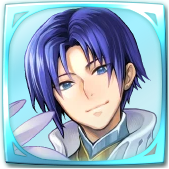
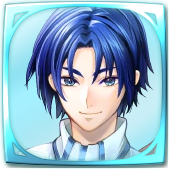
new flairs

diff --git a/flairsnew.js b/flairsnew.js
@@ -47,6 +47,14 @@ let data = {
             ":Kvasir:" : "10_7010.png",
               ":Cecilia4:" : "160_27040.png",
 
+  ":Fir3:" : "160_19030.png",
+    ":Noah:" : "160_19110.png",
+      ":Saul:" : "160_14110.png",
+        ":Dorothy:" : "160_14210.png",
+          ":Murdock:" : "160_33110.png",
+            ":Hinoka5:" : "1142_5050.png",
+              ":Sigurd4:" : "141_1040.png",
+
 
 
   ":Elise6:": "1143_12060.png",
@@ -1049,7 +1057,7 @@ let data = {
   ":Sanaki3:": "1102_2020.png",
   ":Sanaki4:": "1102_2040.png",
   ":Sara:": "150_12010.png",
-  ":Saul2:": "160_14110.png",
+  ":Saul2:": "160_14120.png",
   ":Sayri:": "1131_21010.png",
   ":Sedgar:": "110_30210.png",
   ":Seiros:": "1161_4010.png",
